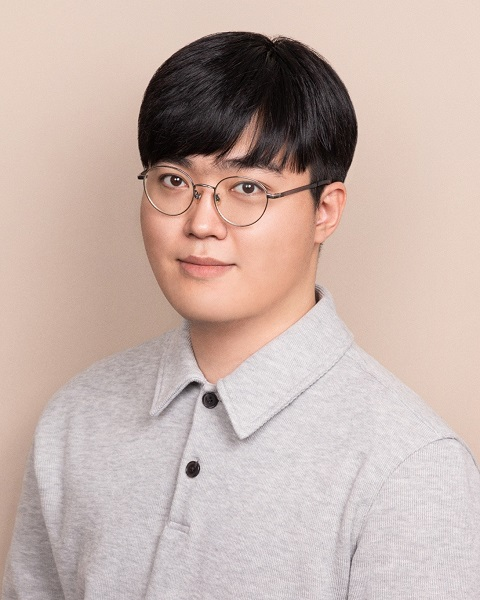
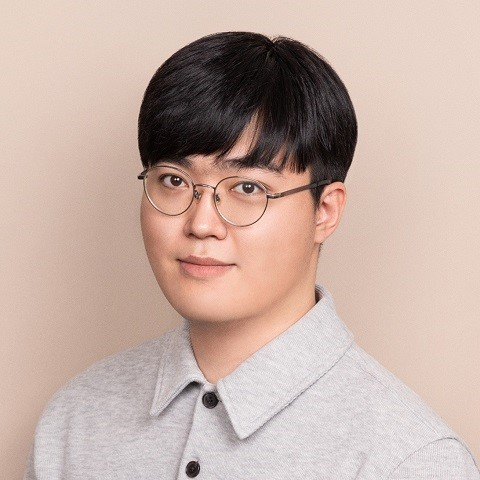
style: people 수정
프로필 이미지 윤곽 둥글게 수정
alumni 오타 및 표기 내용 수정

diff --git a/_sass/_base.scss b/_sass/_base.scss
@@ -234,8 +234,11 @@ ul.task-list input[type="checkbox"] {
 
 .profile img {
   width: 100%;
+  aspect-ratio: 1/1;
   max-width: 480px;
-  height: auto;
+  max-height: 480px;
+  object-fit: cover;
+  object-position: top;
   border-radius: 50%;
 }
 

diff --git a/_pages/profiles.md b/_pages/profiles.md
@@ -11,84 +11,75 @@ profiles_professor:
   # and create one content file for each profile inside _pages/
   - image: LJY.jpg
     # content: about_einstein.md
-    image_circular: false # crops the image to make it circular
+    image_circular: true # crops the image to make it circular
     more_info: >
-      <p style="font-size: 1.5rem;"><strong>Jaeyeon Lee</strong></p>
+      <p style="font-size: 1.5rem;"><strong>Jaeyeon Lee</strong></p><br>
       <p>Assistant Professor</p>
     email: jaeyeonlee@unist.ac.kr
-    website: https://jaeyeonlee.com
+    website: https://jaeyeonlee.com/JaeyeonLee_CV.pdf
 
 profiles_student:
   # if you want to include more than one profile, just replicate the following block
   # and create one content file for each profile inside _pages/
   - image: BSH.jpg
+    image_circular: true
     # content: about_einstein.md
-    image_circular: false # crops the image to make it circular
     more_info: >
-      <p style="font-size: 1.5rem;"><strong>Sanghyun Bae</strong></p>
+      <p style="font-size: 1.5rem;"><strong>Sanghyun Bae</strong></p><br>
       <p>Master Student</p>
     email: nshbae@unist.ac.kr
   - image: KSW.jpg
     # content: about_einstein.md
-    image_circular: false # crops the image to make it circular
+    image_circular: true # crops the image to make it circular
     more_info: >
-      <p style="font-size: 1.5rem;"><strong>Sungwoo Kang</strong></p>
+      <p style="font-size: 1.5rem;"><strong>Sungwoo Kang</strong></p><br>
       <p>Master-Ph.D Student</p>
     email: joseph316@unist.ac.kr
   - image: LJS.jpg
     # content: about_einstein.md
-    image_circular: false # crops the image to make it circular
+    image_circular: true # crops the image to make it circular
     more_info: >
-      <p style="font-size: 1.5rem;"><strong>Junsu Lee</strong></p>
+      <p style="font-size: 1.5rem;"><strong>Junsu Lee</strong></p><br>
       <p>Undergraduate Student</p>
     email: linak31413@unist.ac.kr
 
-profiles_allumni:
+profiles_alumni:
   # if you want to include more than one profile, just replicate the following block
   # and create one content file for each profile inside _pages/
-  - image: MBY.jpg
+  - #image: MBY.jpg
     # content: about_einstein.md
     image_circular: false # crops the image to make it circular
     more_info: >
-      <p style="font-size: 1.5rem;"><strong>Buyoung Mun</strong></p>
-      <p>Master-Ph.D Student</p>
+      <p style="font-size: 1.5rem;"><strong>Buyoung Mun</strong></p><br>
       <p>OCT. 2021 – AUG. 2024</p>
-  - image: KJS.jpg
+  - #image: KJS.jpg
     # content: about_einstein.md
     image_circular: false # crops the image to make it circular
     more_info: >
-      <p style="font-size: 1.5rem;"><strong>Jiseong Kim</strong></p>
-      <p>Master-Ph.D Student</p>
+      <p style="font-size: 1.5rem;"><strong>Jiseong Kim</strong></p><br>
       <p>OCT. 2021 – FEB. 2024</p>
-  - image: BDS.jpg
+  - #image: BDS.jpg
     # content: about_einstein.md
     image_circular: false # crops the image to make it circular
     more_info: >
-      <p style="font-size: 1.5rem;"><strong>Dusan Baek</strong></p>
-      <p>Undergraduate Student</p>
+      <p style="font-size: 1.5rem;"><strong>Dusan Baek</strong></p><br>
       <p>JUL. 2023 – JAN. 2024</p>
   - more_info: >
-      <p style="font-size: 1.5rem;"><strong>Jungmin Park</strong></p>
-      <p>Undergraduate Student</p>
+      <p style="font-size: 1.5rem;"><strong>Jungmin Park</strong></p><br>
       <p>MAR. 2023 – DEC. 2023</p>
   - more_info: >
-      <p style="font-size: 1.5rem;"><strong>Badraa BatUlzii</strong></p>
-      <p>Undergraduate Student</p>
+      <p style="font-size: 1.5rem;"><strong>Badraa BatUlzii</strong></p><br>
       <p>MAR. – SEP. 2023</p>
   - more_info: >
-      <p style="font-size: 1.5rem;"><strong>Kai Schaerer</strong></p>
-      <p>Undergraduate Student</p>
+      <p style="font-size: 1.5rem;"><strong>Kai Schaerer</strong></p><br>
       <p>JUL. – SEP. 2023</p>
   - more_info: >
-      <p style="font-size: 1.5rem;"><strong>Seonggyu Jang</strong></p>
-      <p>Undergraduate Student</p>
+      <p style="font-size: 1.5rem;"><strong>Seonggyu Jang</strong></p><br>
       <p>OCT. 2022 – JUL. 2023</p>
   - more_info: >
-      <p style="font-size: 1.5rem;"><strong>Sangeun Seo</strong></p>
-      <p>Undergraduate Student</p>
+      <p style="font-size: 1.5rem;"><strong>Sangeun Seo</strong></p><br>
       <p>SEP. – NOV. 2022</p>
   - more_info: >
-      <p style="font-size: 1.5rem;"><strong>Gayun Im</strong></p>
-      <p>Undergraduate Student</p>
+      <p style="font-size: 1.5rem;"><strong>Gayun Im</strong></p><br>
       <p>JUN. – AUG. 2022</p>
 ---
